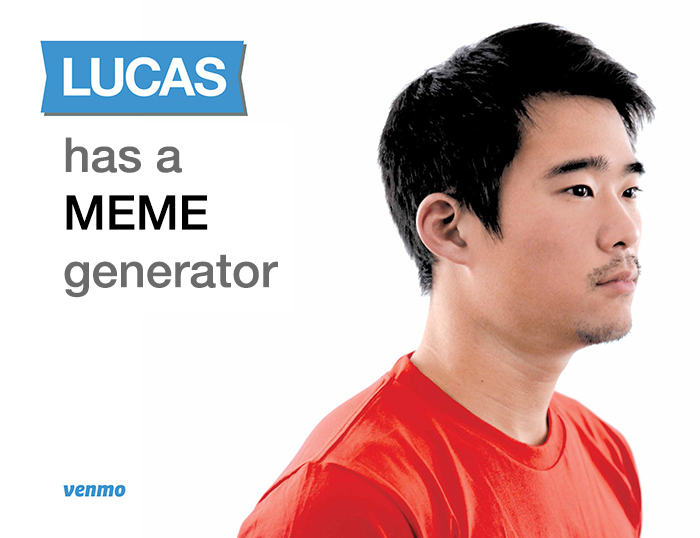
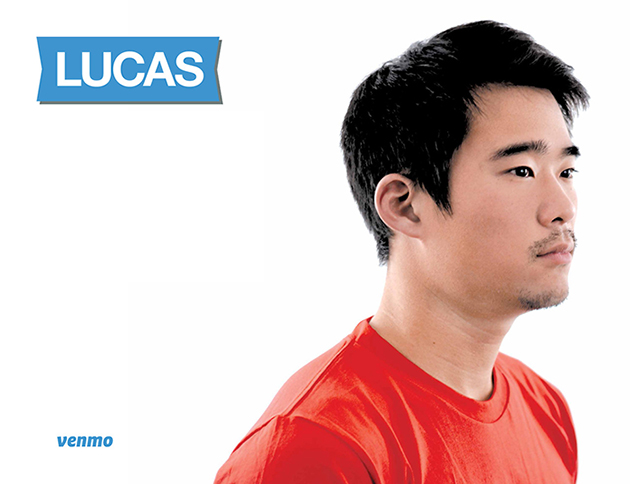
pulled text out of the image

diff --git a/css/style.css b/css/style.css
@@ -35,30 +35,52 @@ pre, form, fieldset, table, th, td { margin: 0; padding: 0; }
 
 h1 {
   color: #3e94cf;
-  font-size: 36px;
-  line-height: 40px;
+  font-size: 40px;
+  font-weight: bold;
+  line-height: 38px;
   text-align: center;
   padding: 20px;
 }
 
-.left img {
-  box-shadow: 0px 0px 20px #333;
-  width: 600px;
-}
+
 
 .left {
+  background-image: url('../images/lucas-is-a-meme.jpg');
   float: left;
-  width: 660px;
+  box-shadow: 0px 0px 20px #333;
+  width: 630px;
+  height: 484px;
   margin-top: 75px;
+  margin-right: 30px;
+}
+.text-line {
+  font-size: 44px;
+  font-weight: bold;
+  line-height: 40px;
+  margin-left: 56px;
+}
+
+.text-line:first-child {
+    margin-top: 110px;
+}
+
+.grey{
+  color: #888;
+}
+
+.black {
+  color: #000;
+  padding-top: 7px;
 }
 
 .right {
-  background-color: rgba(255, 255, 255, .8);
+  background-color: rgba(255, 255, 255, .75);
   box-shadow: 0px 0px 20px #333;
   float: right;
-  height: 462px;
+  height: 485px;
   margin-top: 75px;
   width: 300px;
+  position: relative;
 }
 
 input {
@@ -72,7 +94,6 @@ input {
   padding: 20px;
 }
 
-
 .save-button {
   background-color: rgb(52, 152, 219);
   border: none;
@@ -81,8 +102,8 @@ input {
   cursor: pointer;
   border-radius: 4px;
   padding: 10px 25px;
-  margin: 0 auto;
-
+  margin: 35px auto;
+  width: 90px;
 }
 .save-button:hover {
   background-color: rgba(52, 152, 219, .8);
@@ -98,7 +119,7 @@ input {
 }
 
 footer {
-  padding: 20px;
+  padding: 30px;
   margin: 0 auto;
   width: 100px;
 }

diff --git a/index.html b/index.html
@@ -24,7 +24,9 @@
         <div class="container">
             
             <div class="left">
-                <img src="images/lucas-is-a-meme.jpg" alt="Lucas is a meme">
+                <div class="text-line grey">has a</div>
+                <div class="text-line black">MEME</div>
+                <div class="text-line grey">generator</div>
             </div>
             <div class="right">
                 <h1>Make a Lucas Meme</h1>
